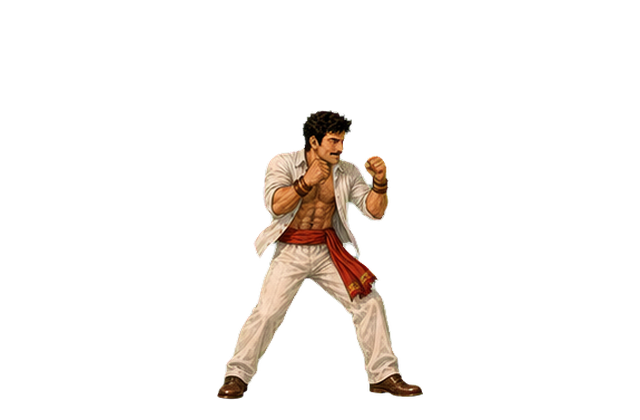
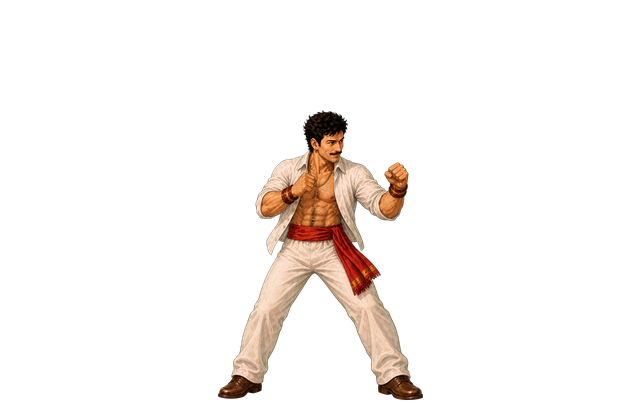
Use static HQ guard for Marco idle

Changed region(s): [[0.3438, 0.2476, 0.6562, 0.9595]]

diff --git a/tests/marco-core-arcade.test.ts b/tests/marco-core-arcade.test.ts
@@ -11,6 +11,9 @@ test('Marco Core carica solo locomozione laterale e archivia le varianti ridonda
   }
   assert.equal(marco.animations.walk.frames, 8);
   assert.equal(marco.animations.run.frames, 8);
+  assert.equal(marco.animations.idle.frames, 1);
+  assert.equal(marco.animations.idle_variant_1, undefined);
+  assert.ok(marco.archived_animations.idle_variant_1);
 });
 
 test('ogni selezione runtime usa sorgenti unici e validi', () => {
@@ -26,7 +29,7 @@ test('ogni selezione runtime usa sorgenti unici e validi', () => {
 test('il budget runtime resta compatto senza ridurre caduta e rialzata', () => {
   const logicalFrames = Object.values(marco.animations as Record<string, { frames: number }>)
     .reduce((total, spec) => total + spec.frames, 0);
-  assert.equal(logicalFrames, 145);
+  assert.equal(logicalFrames, 134);
   assert.equal(marco.animations.knockdown.frames, 8);
   assert.equal(marco.animations.getup.frames, 8);
 });
